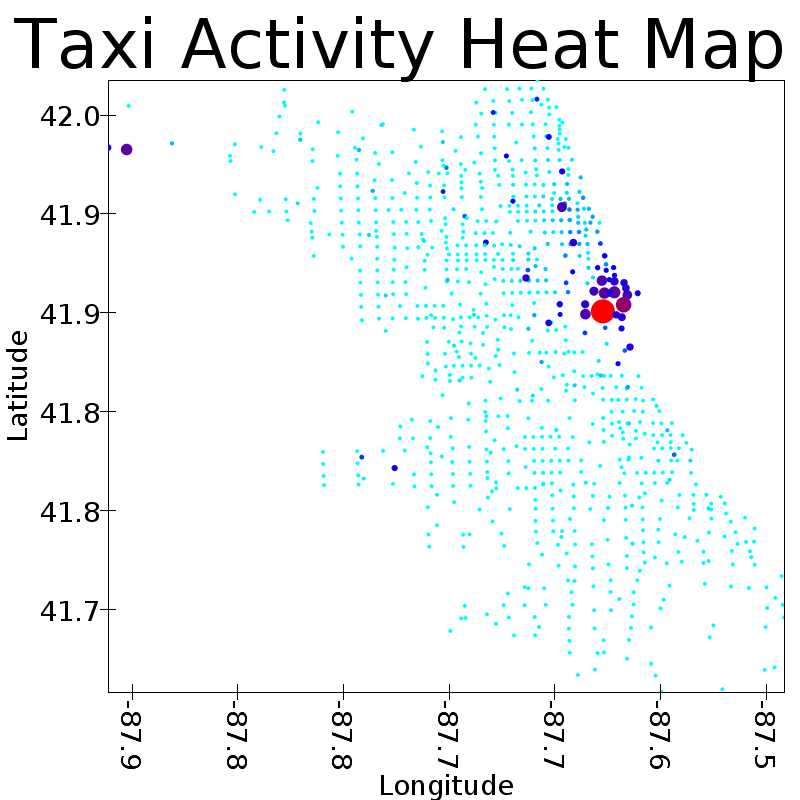
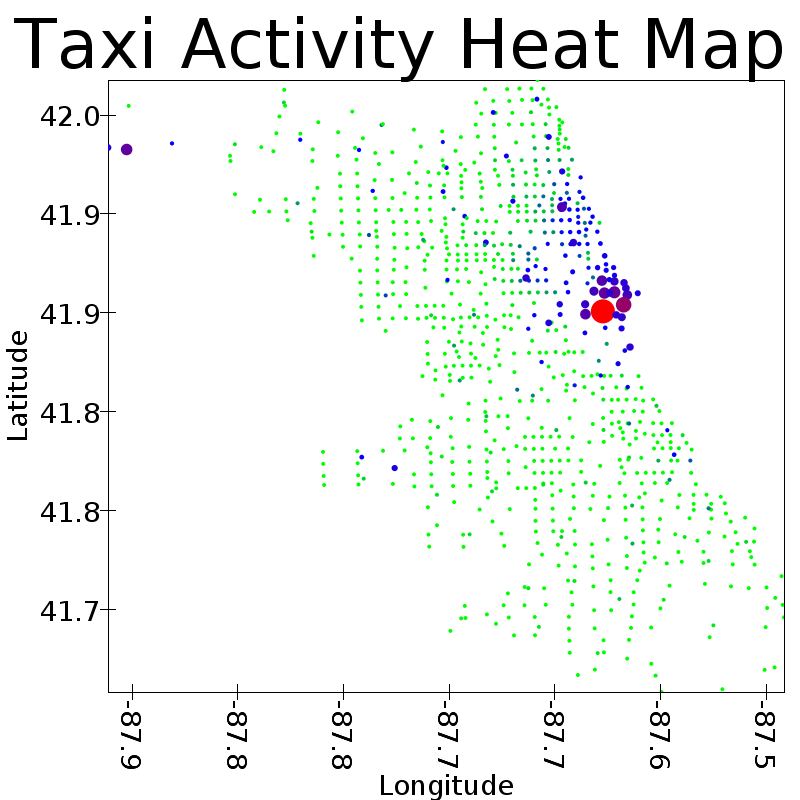
run

diff --git a/writeup.md b/writeup.md
@@ -1,38 +1,60 @@
-classification
-1.0, Company
-[info] (0.06692576910448834,Trip Miles)
-[info] (0.008460769441362355,Trip Seconds)
-[info] (0.007796691774158034,Tips)
+# Chicago Taxi Transportation 
+##### Emerson Spradling
 
+I used the the “Taxi Trips” dataset from the City of Chicago which is approximately 72 gigabytes in size. I choose this dataset because I am interested in human decision and patterns as it cannot be scientifically predicted by specific algorithms. Through using machine learning algorithms, I hope to be able to predict human decisions with a high success rate.  In this project on Taxi Data I planned to do just that. Because of the size of data and limited resources, my approach to processing this data was taking a random sample size to work with on a local computer and then scale it to the full dataset using a cluster. Due to this I was able to much more efficiently edit code because, when scaled to the cluster, something as simple as reading in the data required ten minutes. 
 
-clustering
-Test Set Accuracy = 0.8331819688719484
-+----------+------------------+
-|prediction| avg(Trip Seconds)|
-+----------+------------------+
+The first question I wanted to answer was taxi usage in Chicago. To answer this, I created a heat map of both taxi pick ups and drop offs as shown below. The green represents the lest active areas, blue represents medium activity, and red represents high activity. I also used size to indicate this as well to reinforce the dimension. We see that there is high usage in downtown Chicago, which is to be expected. However, what is interesting to note is that on the outskirts we also see medium activity. I hypothesize that this is due to people taking taxis into downtown Chicago. 
+
+![Heat Map](images/taxiActivityHeatMap.png)
+
+I then applied a K-Means clustering machine learning algorithm to the dataset using Trip Miles, Fare, and Trip Seconds to hopefully find and explanation of the datapoints in the heat map that had high activity but were on the edge of the city. With the clustering algorithm, I was able to cluster with a 83.32% test set accuracy. Through this I found the following results:
+
+|Cluster | Average Trip Seconds|
+| ------ |------------------ |
 |         1|2286.7081191032207|
 |         3| 49258.56083553657|
 |         4| 2066.998901271386|
 |         2|1871.0490110529377|
 |         0| 545.0601430606067|
-+----------+------------------+
 
-+----------+------------------+
-|prediction|         avg(Fare)|
-+----------+------------------+
-|         1|37.345619816118486|
-|         3| 30.53992803739957|
+|prediction|      Average Fare |
+|----------|------------------|
+|         1| 37.34561981611844|
+|         3|30.539928037399537|
 |         4| 52.75945063569301|
-|         2| 6378.689128853979|
-|         0| 9.176503692770533|
-+----------+------------------+
+|         2| 6378.689128853985|
+|         0| 9.176503692770524|
 
-+----------+------------------+
-|prediction|   avg(Trip Miles)|
-+----------+------------------+
-|         1|14.588542916067773|
-|         3| 5.575106543168801|
-|         4|1513.6440527389743|
+|prediction|   Average Trip Miles|
+|----------|------------------|
+|         1|14.588542916067766|
+|         3| 5.575106543168812|
+|         4|1513.6440527389736|
 |         2| 20.21516579406632|
-|         0|1.5392743019672603|
-+----------+------------------+
+|         0|1.5392743019672586|
+
+The graph below shows each taxi stop and its cluster with the size being the taxi activity from the previous heat map. The cluster was determined by taking the cluster with the highest count at that point. I used yellow to represent the cluster with the highest amount of points on the map so that the other colors would pop out more. The magenta cluster ended up become the “outlier” cluster where data points were not similar to the rest and therefore why we do not see any on the map. On the map, we can find the points with high activity from the heat map and get statistics about them. The statistics reinforce my hypothesis as Cluster 1 has a “Average Trip Miles” of 14 which is approximately the distance from the points to downtown.
+
+![Cluster](images/taxiDistanceClustering2.png)
+Key:
+|Color | Cluster|
+|------|--------|
+|Yellow|0|
+|Green|1|
+|Red|2|
+|Blue|3|
+|Magenta|4|
+
+I also produced another graph to help visualize the key statistics from the clustering shown below where size represent Fare:
+
+![Cluster Second](images/clustering2.png)
+
+After the clustering algorithm, I then ran a Multilayer Perceptron Classifier algorithm on the data using Trip Miles, Trip Seconds, Tips, and Extras as the input decisions in order to predict the Payment Type used to pay for the taxi ride. The different types of payment are listed below:
+
+|Payment Type|
+|------------|
+|Cash|
+
+
+
+
